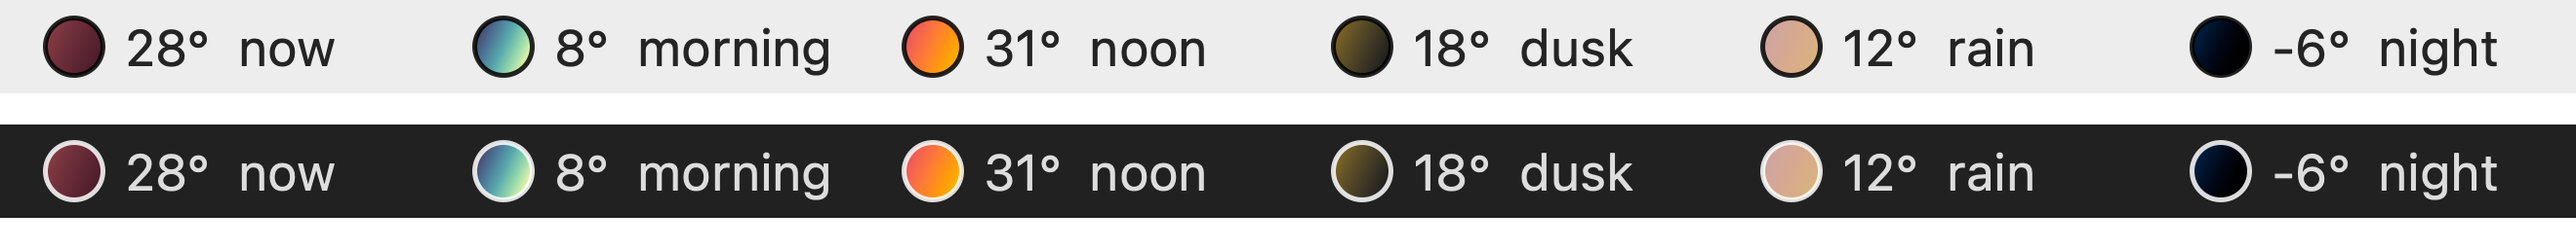
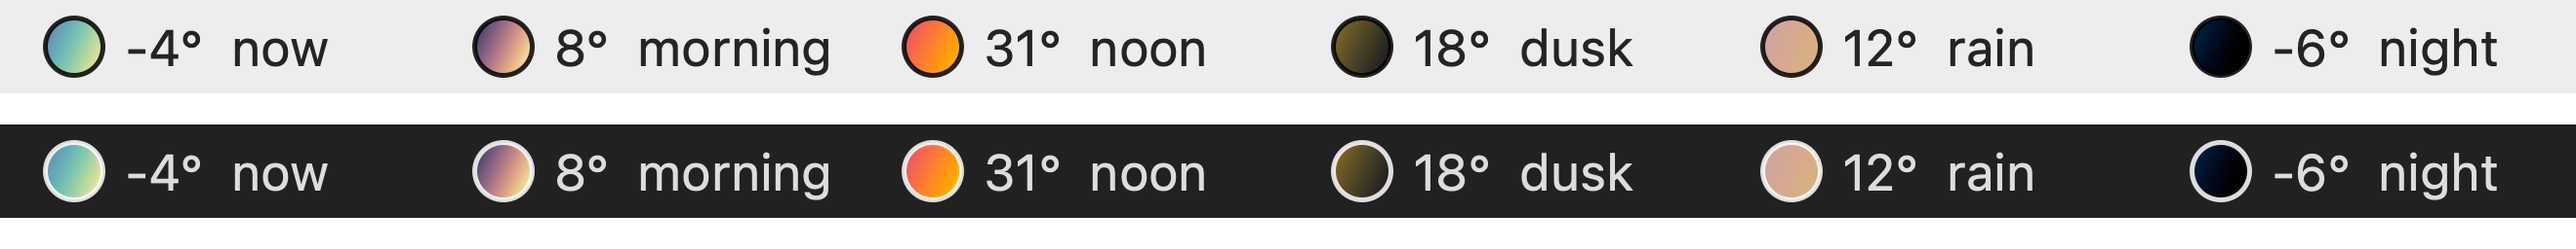
macOS: demo mode and snowy marketing screenshots (#44)
* Add a native macOS app (SwiftUI) in macos/

A Swift port of the sky engine (palette, conditions, Open-Meteo forecast)
as a UI-free HuecastCore library with tests against values from the web
app, and a SwiftUI app: gradient sky, Canvas particles, sun and moon,
forecast bar with hover magnification and scrubbing, next days, search,
pins, units, save as picture and a desktop wallpaper mode.

build-app.sh bundles Huecast.app; a GitHub Actions workflow tests and
builds it on macOS and uploads the zipped app.

Claude-Session: https://claude.ai/code/session_01B7qqqC3wGhTd4kXV8uEMWr

* macOS: menu bar icon with an expandable widget

The menu bar icon is a full circle painted with the current sky and a
border in the menu bar's text colour, with the temperature next to it.
Clicking it opens a small widget over the live sky that expands to the
forecast bar. Adds -lat/-lon/-name launch options and a -snapshots mode
that CI uses to take screenshots.

Claude-Session: https://claude.ai/code/session_01B7qqqC3wGhTd4kXV8uEMWr

* macOS: read launch places by hand, retry a timed out forecast

UserDefaults read a negative longitude as the next option. Screenshot
mode now also runs when loading fails.

Claude-Session: https://claude.ai/code/session_01B7qqqC3wGhTd4kXV8uEMWr

* macOS: fix a stray brace in AppModel

Claude-Session: https://claude.ai/code/session_01B7qqqC3wGhTd4kXV8uEMWr

* macOS: keep the sun its size when it glows
[…]

diff --git a/macos/Sources/Huecast/AppModel.swift b/macos/Sources/Huecast/AppModel.swift
@@ -138,7 +138,9 @@ final class AppModel {
     func start() {
         guard !started else { return }
         started = true
-        if let lat = Self.argument("-lat").flatMap({ Double($0) }), let lon = Self.argument("-lon").flatMap({ Double($0) }) {
+        if CommandLine.arguments.contains("-demo") {
+            startDemo()
+        } else if let lat = Self.argument("-lat").flatMap({ Double($0) }), let lon = Self.argument("-lon").flatMap({ Double($0) }) {
             open(Place(lat: lat, lon: lon, label: Self.argument("-name") ?? ""))
         } else {
             locate(initial: true)
@@ -222,6 +224,54 @@ final class AppModel {
         return await WeatherAPI.reverseGeocode(lat: p.lat, lon: p.lon)
     }
 
+    // MARK: - Demo
+
+    @ObservationIgnored private(set) var demo = false
+    /// opens the main window; set by the menu bar label, which can
+    /// reach SwiftUI's openWindow (the screenshot mode needs it)
+    @ObservationIgnored var openMainWindow: (() -> Void)?
+
+    /// Fake weather, no network, like the web app's ?demo. Launch with
+    /// `-demo -code 73 -temp -4 -hour 10.5 -name "Helsinki, FI"`: the WMO
+    /// code, °C and local hour of "now"; the next 24 hours drift from there
+    func startDemo() {
+        demo = true
+        let code = Self.argument("-code").flatMap { Int($0) } ?? 73
+        let temp = Self.argument("-temp").flatMap { Double($0) } ?? -4
+        let hour = Self.argument("-hour").flatMap { Double($0) } ?? 10.5
+        let name = Self.argument("-name") ?? "Helsinki, FI"
+
+        // an offset that makes "now" fall on that local hour
+        let now = Date().timeIntervalSince1970
+        let utcSeconds = now.truncatingRemainder(dividingBy: 86400)
+        let offset = hour * 3600 - utcSeconds
+        let dayStart = floor((now + offset) / 86400) * 86400 - offset
+        let daylight = (-1...7).map { d in
+            SunTimes(rise: dayStart + Double(d) * 86400 + 7.5 * 3600, set: dayStart + Double(d) * 86400 + 17 * 3600)
+        }
+        func isDay(_ t: Double) -> Bool { daylight.contains { t >= $0.rise && t < $0.set } }
+
+        var next = [Hour(time: now, temp: temp, feels: temp - 4, code: code, isDay: isDay(now), wind: 10,
+                         data: HourData(), isNow: true)]
+        let firstHour = ceil(now / 3600) * 3600
+        for i in 0..<24 {
+            let t = firstHour + Double(i) * 3600
+            let local = ((t + offset) / 3600).truncatingRemainder(dividingBy: 24)
+            // warmest mid afternoon, coldest before dawn
+            let swing = 3 * cos((local - 15) / 24 * 2 * .pi)
+            let c = i < 5 ? code : i < 9 ? 71 : i < 16 ? 3 : 1
+            next.append(Hour(time: t, temp: temp - 1.5 + swing, feels: temp - 5 + swing, code: c, isDay: isDay(t),
+                             wind: 10, data: HourData()))
+        }
+        place = Place(lat: 60.17, lon: 24.94, label: name)
+        forecast = Forecast(offset: offset, next: next, days: [], daylight: daylight)
+        viewDay = nil
+        selected = 0
+        clock = Date()
+        status = .ready
+        if Snapshots.directory != nil { Snapshots.run(self) }
+    }
+
     /// one more try after a timeout or a dropped connection
     nonisolated private static func forecastRetrying(_ p: Place) async throws -> Forecast {
         do {
@@ -233,7 +283,7 @@ final class AppModel {
     }
 
     func refresh() async {
-        guard let p = place, status == .ready else { return }
+        guard let p = place, status == .ready, !demo else { return }
         guard let f = try? await WeatherAPI.forecast(lat: p.lat, lon: p.lon), place?.isSame(as: p) == true else { return }
         forecast = f
         // the day being viewed is gone: back to the next 24 hours

diff --git a/macos/Sources/Huecast/Snapshots.swift b/macos/Sources/Huecast/Snapshots.swift
@@ -22,6 +22,11 @@ enum Snapshots {
                 try? data.write(to: dir.appendingPathComponent("menubar-icons.png"))
             }
             try? await Task.sleep(for: .seconds(3))
+            // the demo starts before the window is up: make sure it's open
+            if !NSApp.windows.contains(where: { $0.title == "Huecast" && $0.canBecomeMain && $0.isVisible }) {
+                model.openMainWindow?()
+                try? await Task.sleep(for: .seconds(2))
+            }
 
             toggleStatusItem()
             try? await Task.sleep(for: .seconds(2.5))

diff --git a/macos/Sources/Huecast/MenuBar.swift b/macos/Sources/Huecast/MenuBar.swift
@@ -33,6 +33,7 @@ enum MenuBarIcon {
 
 struct MenuBarLabel: View {
     var model: AppModel
+    @Environment(\.openWindow) private var openWindow
 
     var body: some View {
         // "now", whatever hour the window is scrubbed to
@@ -44,7 +45,10 @@ struct MenuBarLabel: View {
                 Text("\(model.toUnit(ready.hour.temp))°").monospacedDigit()
             }
         }
-        .onAppear { model.start() }
+        .onAppear {
+            model.openMainWindow = { openWindow(id: "main") }
+            model.start()
+        }
     }
 }
 

diff --git a/macos/Sources/HuecastCore/Weather.swift b/macos/Sources/HuecastCore/Weather.swift
@@ -63,6 +63,10 @@ public struct Forecast: Codable, Hashable, Sendable {
     /// the coming days after today, each with its 24 local hours
     public var days: [Day]
     public var daylight: [SunTimes]
+
+    public init(offset: Double, next: [Hour], days: [Day], daylight: [SunTimes]) {
+        self.offset = offset; self.next = next; self.days = days; self.daylight = daylight
+    }
 }
 
 public struct SearchResult: Hashable, Sendable, Identifiable {

diff --git a/macos/README.md b/macos/README.md
@@ -7,9 +7,9 @@ made from **temperature × time of day**, and the weather drawn as particles.
 
 **[Download for MacOS](https://github.com/carlosmarch/huecast/releases/latest/download/Huecast.zip)** · macOS 14 or later · Free
 
-<img src="screenshots/window.jpg" width="100%" alt="The Huecast window on a Mac desktop: an overcast evening sky, the moon and the 24-hour forecast bar">
+<img src="screenshots/window.jpg" width="100%" alt="The Huecast window on a Mac desktop: a snowy morning sky, the veiled sun and the 24-hour forecast bar">
 
-<img src="screenshots/widget.jpg" width="100%" alt="The Huecast menu bar widget open under the sky icon: the temperature, the condition and the moon">
+<img src="screenshots/widget.jpg" width="100%" alt="The Huecast menu bar widget open under the sky icon: the temperature, the condition and the sun">
 
 The menu bar icon in different skies, on a light and a dark menu bar:
 
@@ -84,6 +84,8 @@ The same single keys as the web app, plus ⌘ versions in the **Weather** menu:
 
 Launch options (also used by CI for screenshots):
 `open Huecast.app --args -lat 40.42 -lon -3.70 -name "Madrid, ES"` opens a fixed place;
+`-demo -code 73 -temp -4 -hour 10.5 -name "Helsinki, FI"` shows made-up weather with no
+network (a WMO code, °C and the local hour), like the web app's `?demo`;
 `-snapshots <dir>` walks through the widget and saves screenshots there.
 
 ## Files
